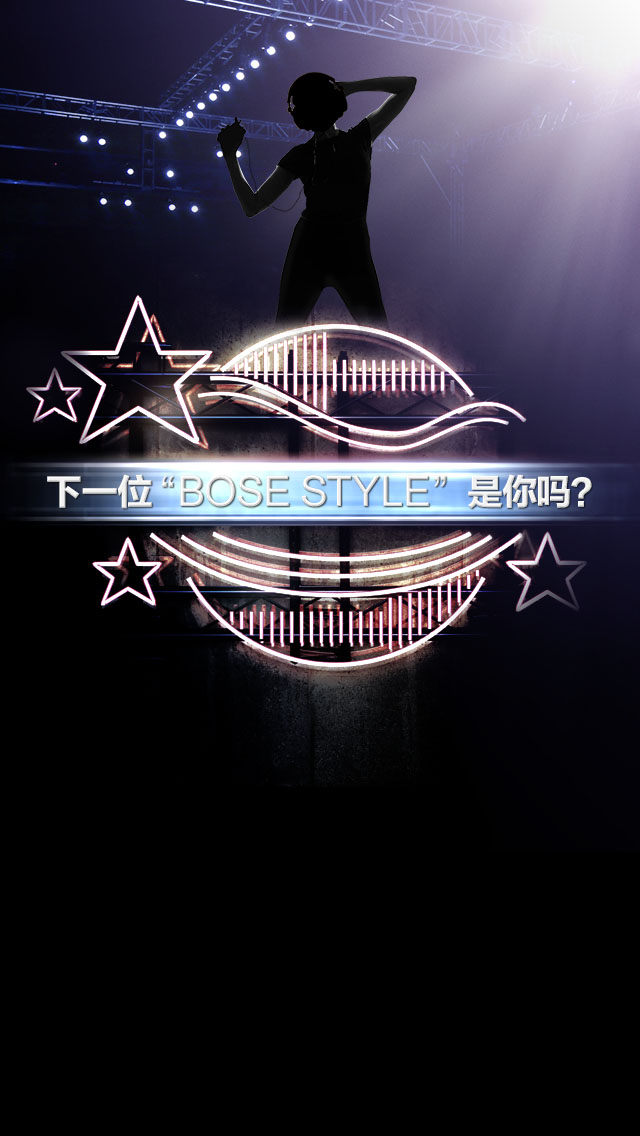
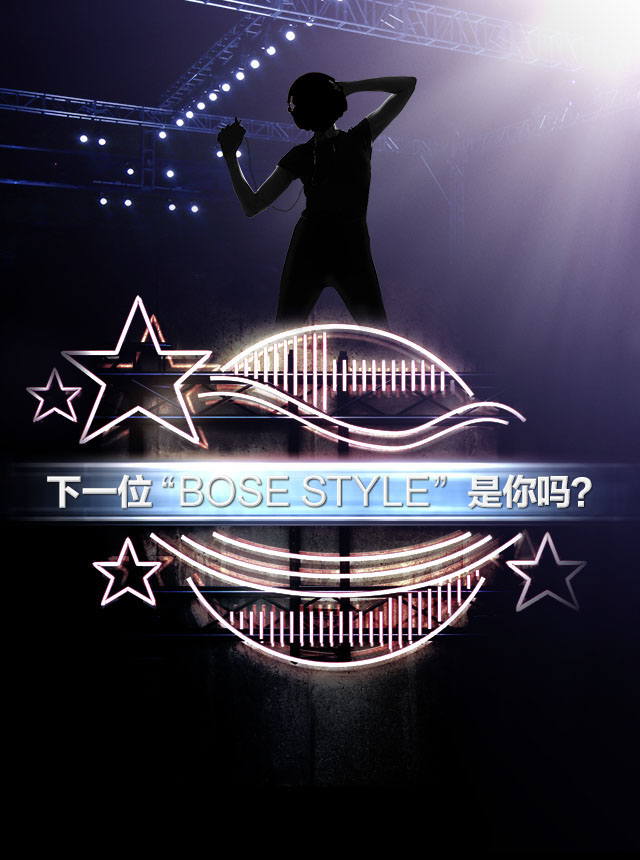
style nav-brand page

diff --git a/assets/stylesheets/app.css b/assets/stylesheets/app.css
@@ -15,6 +15,7 @@
   .buttons-stack .nav-btn {
     display: block;
     float: left;
+    text-align: center;
     margin-top: 4%;
     width: 48%;
     padding: 10px; }
@@ -217,7 +218,9 @@
     background-color: #89f5e4; }
 
 #view-nav-bosestyle > .background {
-  background-position: top; }
+  background-size: contain;
+  background-position: top;
+  background-color: #000; }
 #view-nav-bosestyle .buttons-stack {
   margin-top: 110%; }
 #view-nav-bosestyle .nav-btn {
@@ -254,15 +257,17 @@
   #view-nav-products .catogry-item:nth-child(2n) {
     margin-left: 0; }
 
-#view-nav-products > .background {
-  background-position: bottom; }
-#view-nav-products .buttons-stack {
+#view-nav-brand > .background {
+  background-size: contain;
+  background-position: top;
+  background-color: #f2f0ea; }
+#view-nav-brand .buttons-stack {
   margin-bottom: 15%; }
-#view-nav-products .nav-btn {
+#view-nav-brand .nav-btn {
   box-shadow: 0 1px 5px rgba(0, 0, 0, 0.2);
   background-color: #def1f1;
   color: #622105; }
-  #view-nav-products .nav-btn:active, #view-nav-products .nav-btn:focus {
+  #view-nav-brand .nav-btn:active, #view-nav-brand .nav-btn:focus {
     background-color: #89f5e4; }
-  #view-nav-products .nav-btn.disable {
+  #view-nav-brand .nav-btn.disable {
     background-color: rgba(222, 241, 241, 0.5); }

diff --git a/nav-brand.html b/nav-brand.html
@@ -38,7 +38,14 @@
 </head>
 <body>
     
-    
+    <div class="view" id="view-nav-brand">
+        <div class="background img" data-bg-src="images/nav-brand-bg.jpg"></div>
+        <div class="buttons-stack clearfix">
+            <a class="nav-btn" href="nav-products-catogry.html">品牌故事</a>
+            <a class="nav-btn" href="#">渠道</a>
+            <a class="nav-btn" href="#">环宇项目</a>
+        </div>
+    </div>
     
     <script src="assets/javascripts/vendor/jquery-1.10.2.min.js"></script>
     <script src="assets/javascripts/vendor/underscore.min.js"></script>

diff --git a/assets/stylesheets/app/_nav-brand.scss b/assets/stylesheets/app/_nav-brand.scss
@@ -1,0 +1,21 @@
+#view-nav-brand {
+    > .background {
+        background-size: contain;
+        background-position: top;
+        background-color: #f2f0ea;
+    }
+    .buttons-stack {
+        margin-bottom: 15%;
+    }
+    .nav-btn {
+        box-shadow: 0 1px 5px rgba(0, 0, 0, 0.2);
+        background-color: #def1f1;
+        color: #622105;
+        &:active, &:focus {
+            background-color: darken(#b8f9ef, 10%);
+        }
+        &.disable {
+            background-color: rgba(#def1f1, 0.5);
+        }
+    }
+}

diff --git a/html/nav-brand.html b/html/nav-brand.html
@@ -8,8 +8,8 @@
 </head>
 <body>
     
-    <div class="view" id="view-nav-products">
-        <div class="background img" data-bg-src="images/nav-products-bg.jpg"></div>
+    <div class="view" id="view-nav-brand">
+        <div class="background img" data-bg-src="images/nav-brand-bg.jpg"></div>
         <div class="buttons-stack clearfix">
             <a class="nav-btn" href="nav-products-catogry.html">品牌故事</a>
             <a class="nav-btn" href="#">渠道</a>

diff --git a/assets/stylesheets/app/_nav-bosestyle.scss b/assets/stylesheets/app/_nav-bosestyle.scss
@@ -1,6 +1,8 @@
 #view-nav-bosestyle {
     > .background {
+        background-size: contain;
         background-position: top;
+        background-color: #000;
     }
     .buttons-stack {
         margin-top: 110%;

diff --git a/assets/stylesheets/app/_layouts.scss b/assets/stylesheets/app/_layouts.scss
@@ -15,6 +15,7 @@
     .nav-btn {
         display: block;
         float: left;
+        text-align: center;
         margin-top: 4%;
         width: 48%;
         &:first-child {
